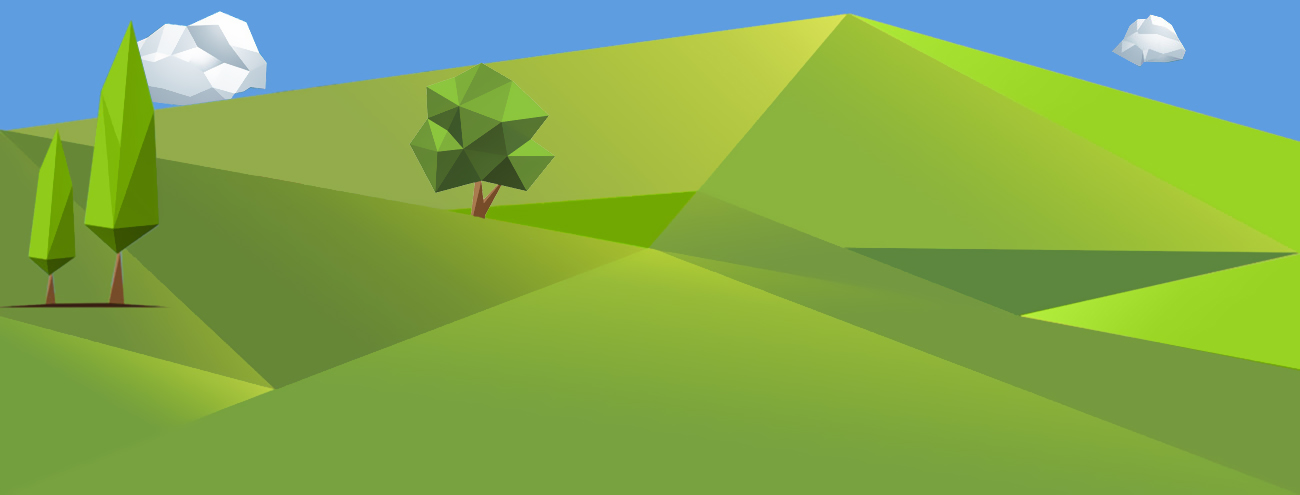
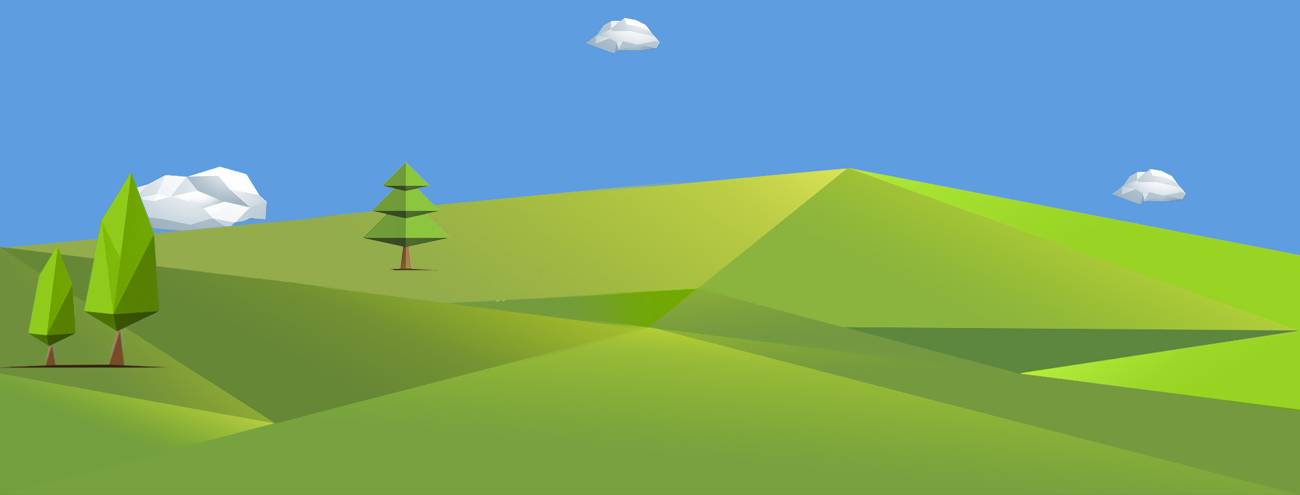
изменил траву. Добавил вертикальную ориентацию для травы

diff --git a/cube/static/css/polygon.css b/cube/static/css/polygon.css
@@ -3,8 +3,8 @@
     height:100%;
     background: #5e9ddf url("../img/polygon/grass.jpg");
     background-repeat: no-repeat;
-    background-position: bottom;
-    background-size: 100% 50%;
+    background-position:  right bottom;
+    background-size: contain;
     overflow: hidden;
 
 }
@@ -53,8 +53,7 @@
     position: relative;
     z-index:5;
     margin:1%;
-    margin-left:5%;
-
+    margin-left:8%;
     font-size:17vh;
     color:#CFFCFF;
     text-shadow: 0 1px 0 #82DFF1,
@@ -82,5 +81,12 @@
 @media screen and (orientation: portrait) {
     #wrapPol > header > p {
         font-size:14vw;
+    }
+
+    #wrapPol:after{
+       content: "";
+       width:30%;
+       bottom:5%;
+       right:1%;
     }
 }
